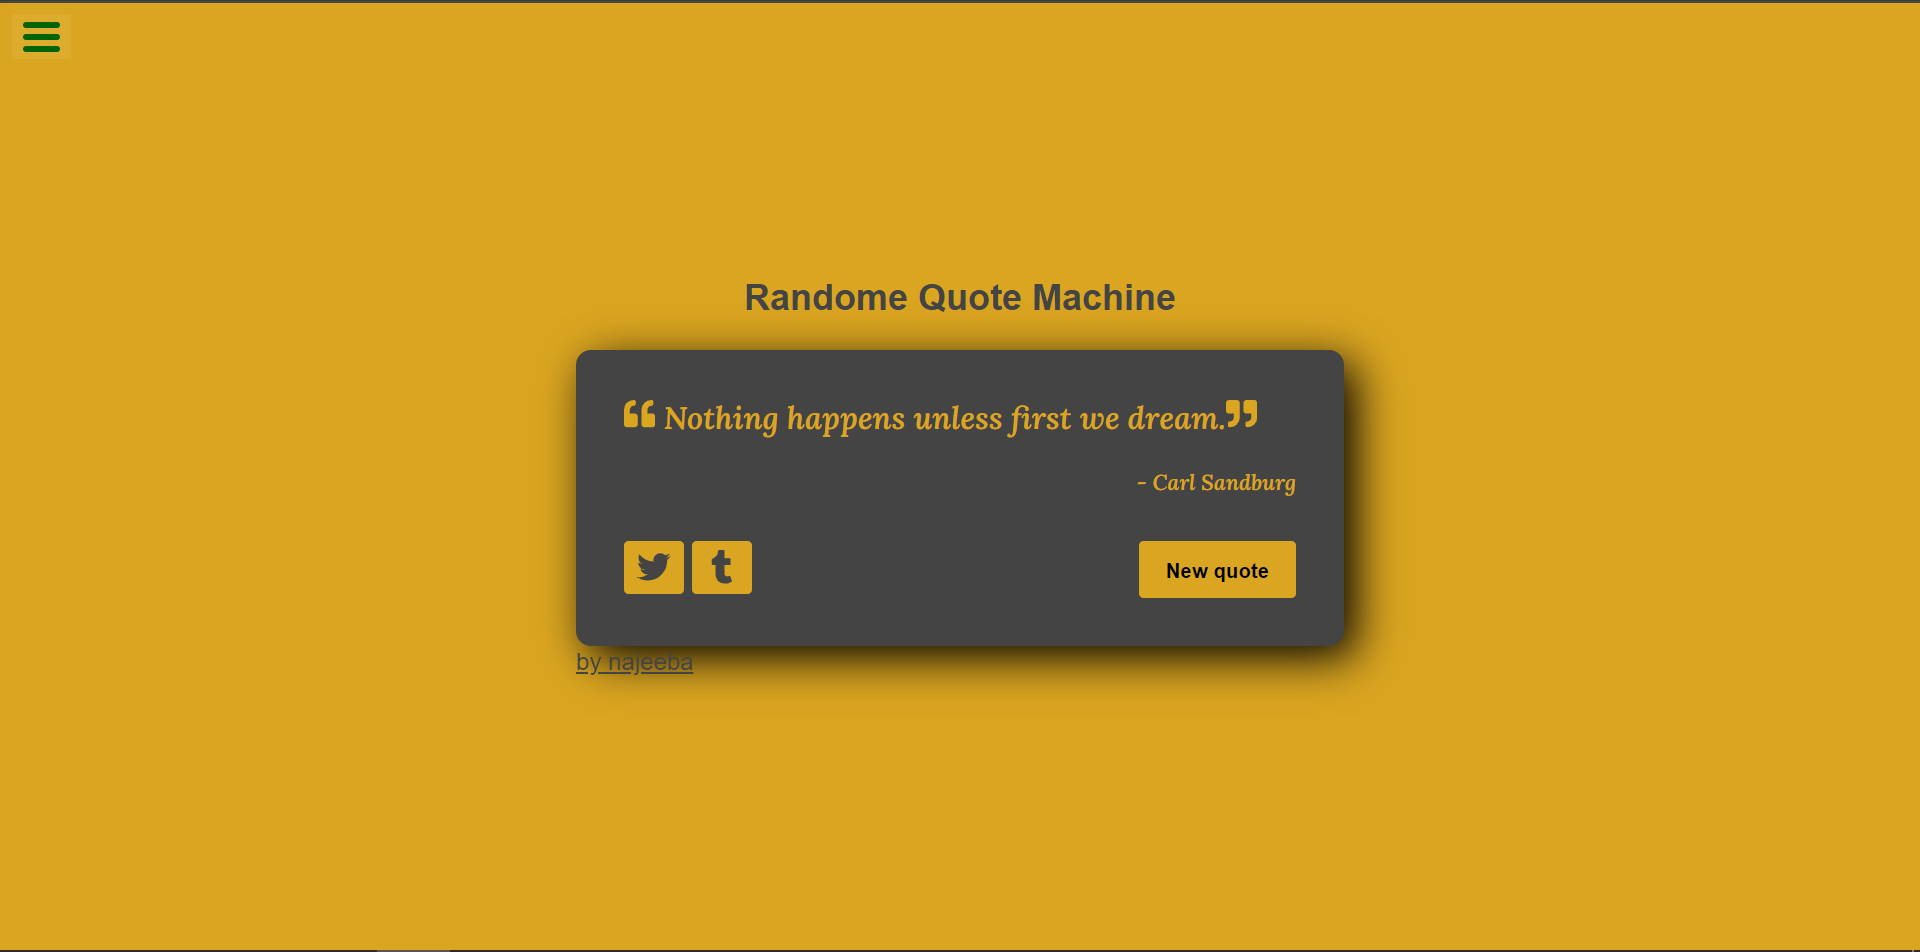
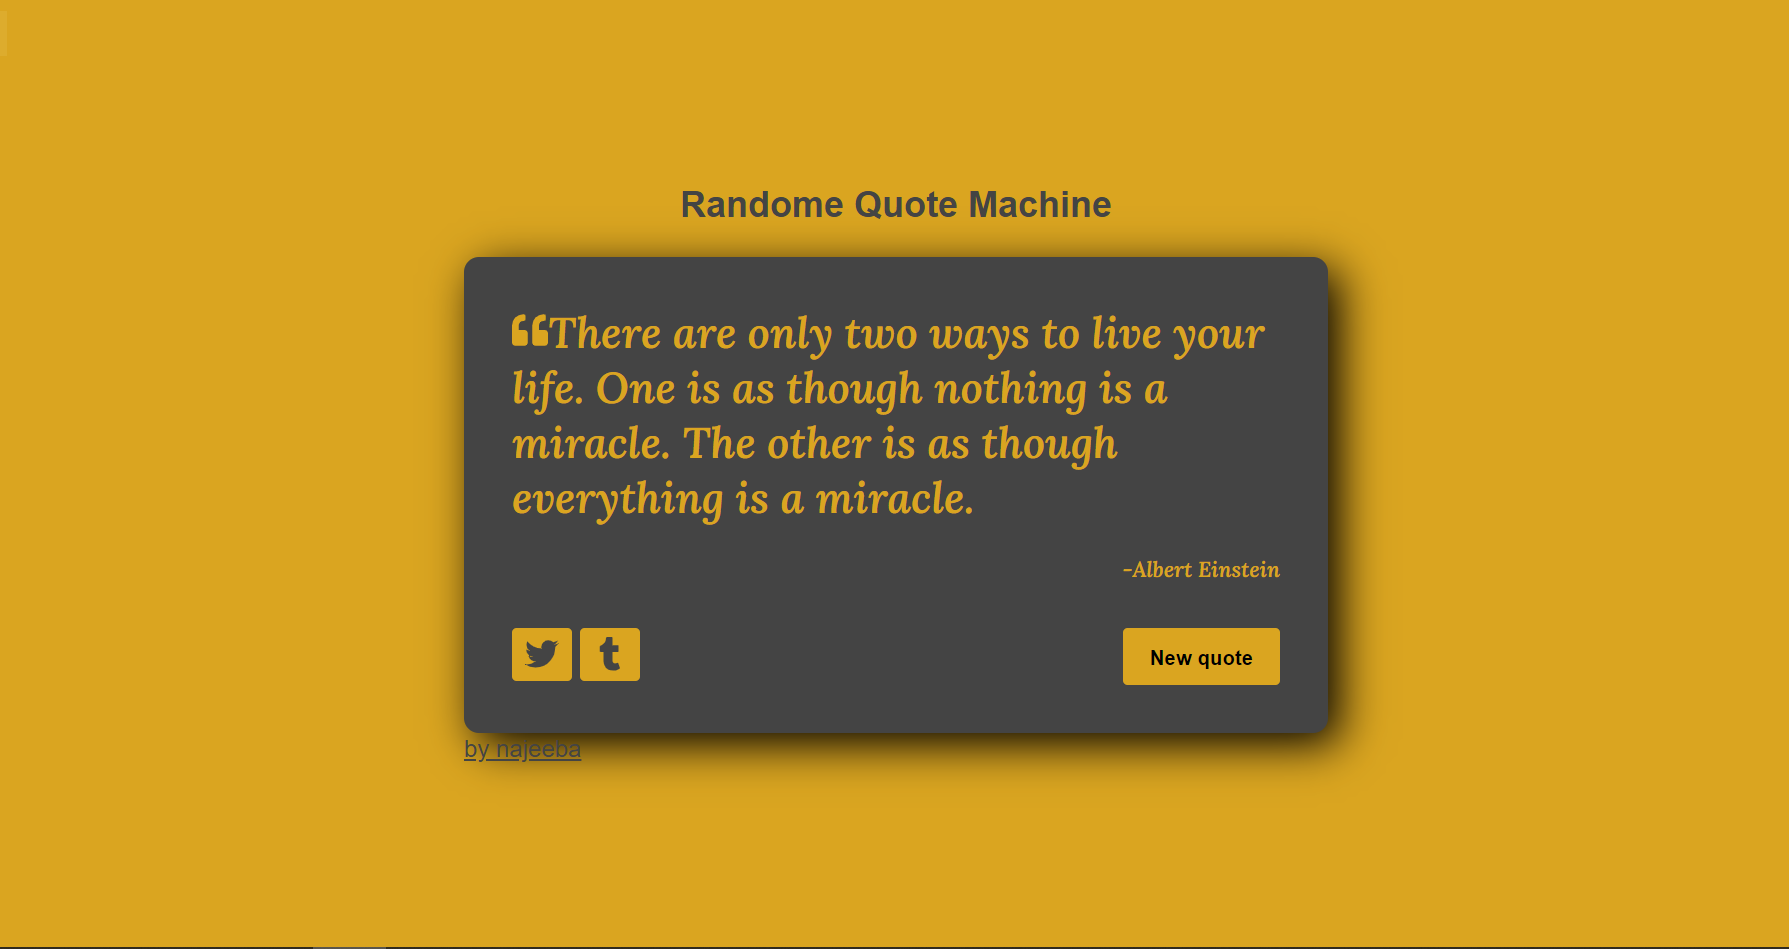
Solved linter error

Changed region(s): [[0.2459, 0.1834, 0.7686, 0.8251], [0.0, 0.0, 1.0, 0.0611]]

diff --git a/src/Components/GetQuote.js b/src/Components/GetQuote.js
@@ -1,6 +1,6 @@
 import React from 'react';
 import {
-  FaTwitter, FaQuoteLeft, FaTumblr
+  FaTwitter, FaQuoteLeft, FaTumblr,
 }
   from 'react-icons/fa';
 
@@ -8,7 +8,7 @@ class GetQuote extends React.Component {
   constructor(props) {
     super(props);
     this.state = {
-      text: '',
+      quote: '',
       author: '',
       url: '',
       tumblr: '',
@@ -28,37 +28,43 @@ class GetQuote extends React.Component {
   }
 
   quote() {
-    fetch('https://type.fit/api/quotes')
+    fetch('https://raw.githubusercontent.com/AtaGowani/daily-motivation/master/src/data/quotes.json')
       .then((response) => response.json())
       .then((data) => {
-        let item = data[Math.floor(Math.random() * data.length)];
+        const item = data[Math.floor(Math.random() * data.length)];
         this.setState({
-          text: item.text,
+          quote: item.quote,
           author: item.author,
-          url: `https://twitter.com/intent/tweet?text= ${item.text}  -  ${item.author}`,
-          tumblr: `https://www.tumblr.com/widgets/share/tool?posttype=quote&tags=quotes,freecodecamp&caption= ${item.text}  -  ${item.author}`,
+          url: `https://x.com/intent/post?hashtags=quotes&related=freecodecamp&text=%22I+am+not+a+product+of+my+circumstances.+I+am+a+product+of+my+decisions.%22+Stephen+Covey ${item.quote}  -  ${item.author}`,
+          tumblr: `https://www.tumblr.com/login?redirect_to=https%3A%2F%2Fwww.tumblr.com%2Fwidgets%2Fshare%2Ftool%3Fposttype%3Dquote%26tags%3Dquotes%252Cfreecodecamp%26caption%3DStephen%2BCovey%26content%3DI%2Bam%2Bnot%2Ba%2Bproduct%2Bof%2Bmy%2Bcircumstances.%2BI%2Bam%2Ba%2Bproduct%2Bof%2Bmy%2Bdecisions.%26canonicalUrl%3Dhttps%253A%252F%252Fwww.tumblr.com%252Fbuttons%26shareSource%3Dtumblr_share_button ${item.quote}  -  ${item.author}`,
         });
       })
       .catch((error) => console.log(error));
   }
 
   render() {
+    const { quote, author, url, tumblr } = this.state;
     return (
       <div id="wrapper">
         <h2>Randome Quote Machine</h2>
         <br />
         <div id="quote-box">
           <div className="quote-text">
-            <FaQuoteLeft />
-            <span id="text">{this.state.text}</span>
+            <label><FaQuoteLeft /></label>
+            <span id="text">{quote}</span>
           </div>
-          <div className="quote-author"> - 
-            <span id="author">{this.state.author}</span>
+          <div className="quote-author">
+            -
+            <span id="author">{author}</span>
           </div>
           <div className="buttons">
-            <a className="button" id="tweet-quote" title="Tweet this quote!" target="_blank" rel="noopener noreferrer" href={this.state.url}><FaTwitter /></a>
-            <a className="button" id="tumblr-quote" title="Post this quote on tumblr!" target="_blank" rel="noopener noreferrer" href={this.state.tumblr}><FaTumblr /></a>
-            <button className='button' id='new-quote' type='button' onClick={this.quote}>New quote</button>
+            <a className="button" id="tweet-quote" title="Tweet this quote!" target="_blank" rel="noopener noreferrer" href={url}>
+              <label><FaTwitter /></label>
+            </a>
+            <a className="button" id="tumblr-quote" title="Post this quote on tumblr!" target="_blank" rel="noopener noreferrer" href={tumblr}>
+              <label><FaTumblr /></label>
+            </a>
+            <button className="button" id="new-quote" type="button" onClick={this.quote}>New quote</button>
           </div>
         </div>
         <a target="_blank" rel="noopener noreferrer" href="https://najeeba-qarqin.github.io/Portfolio-JS/">by najeeba</a>

diff --git a/src/App.css b/src/App.css
@@ -45,11 +45,10 @@ a {
   text-align: right;
 }
 
-.quote-text {
+#text {
   text-align: left;
   width: 100%;
-  font-weight: 500;
-  font-size: 1.3em;
+  font-size: 1.2em;
 }
 
 .buttons {
@@ -111,6 +110,6 @@ a {
   }
 
   .quote-text {
-    font-size: 2em;
+    font-size: 1.5em;
   }
 }
